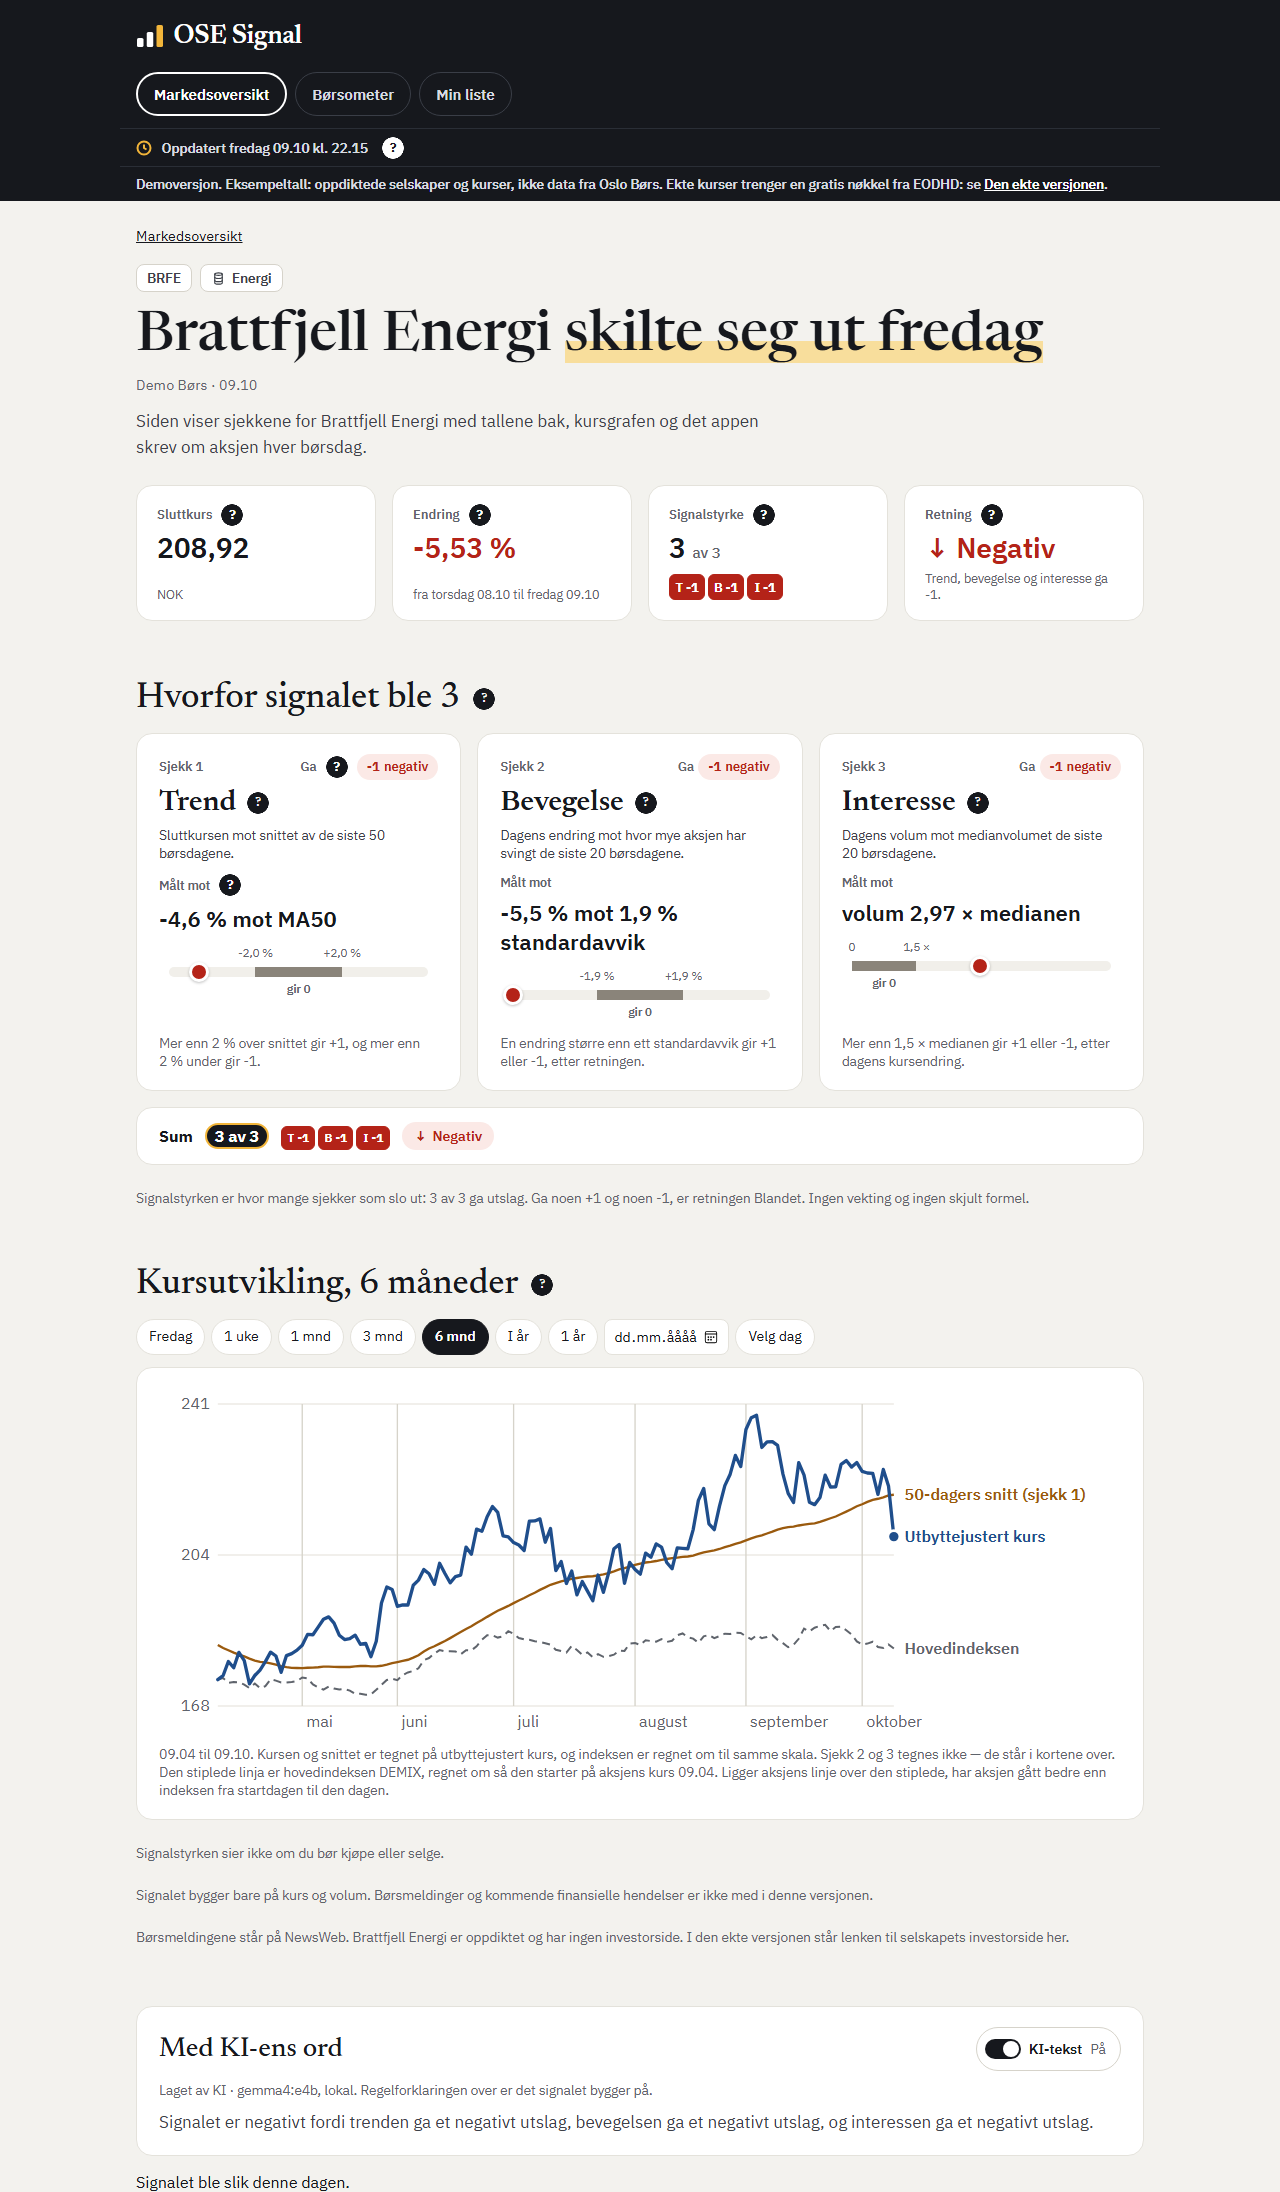
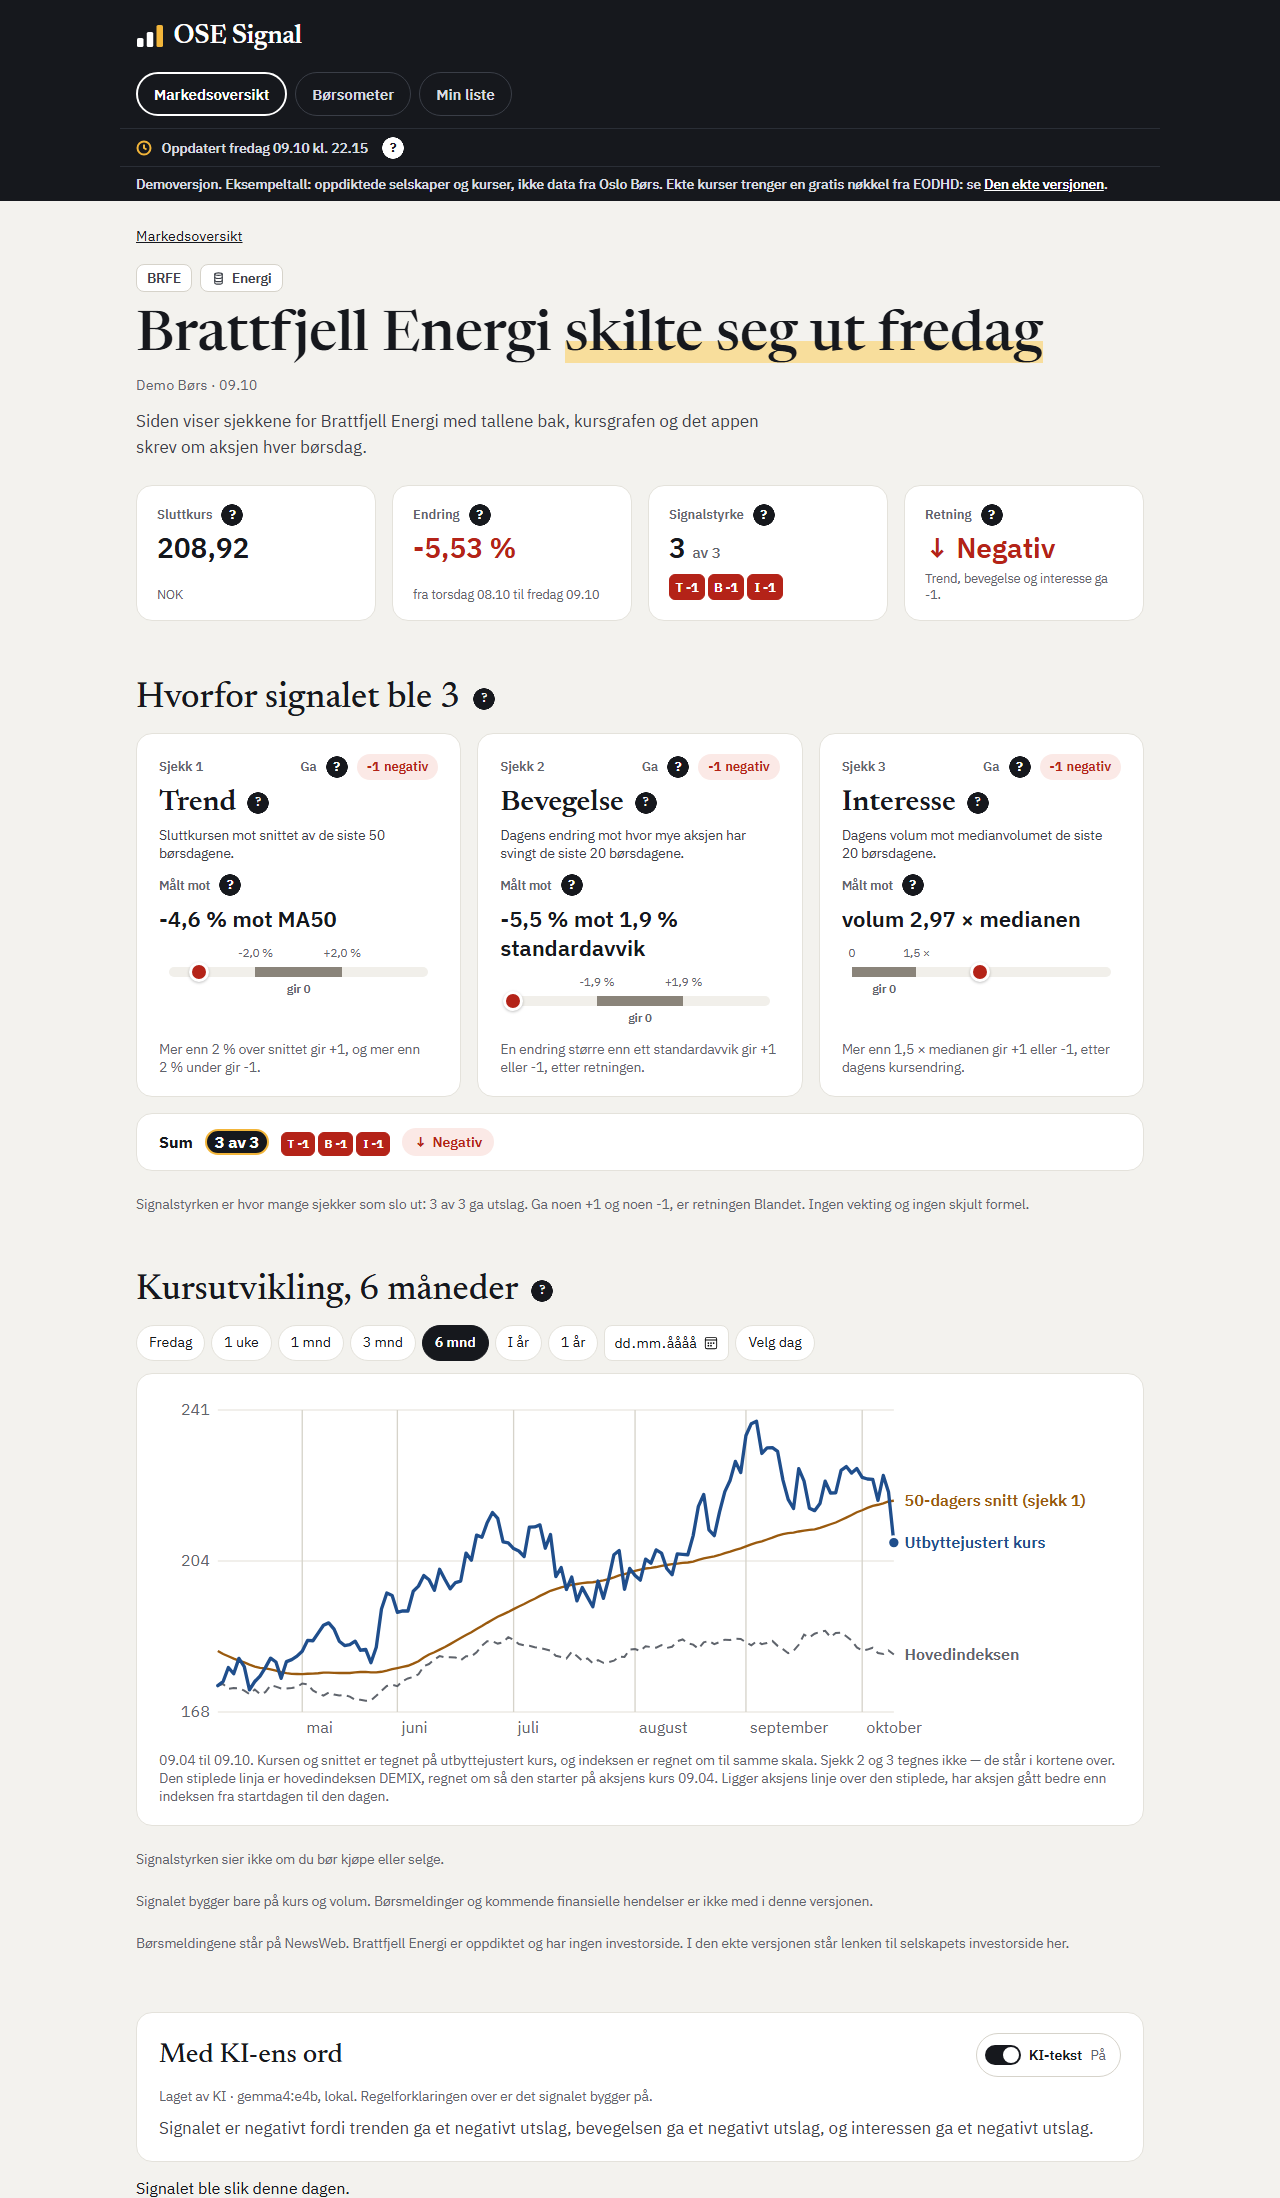
8.2b: «?» ved «Ga» og «Målt mot» i alle tre sjekkortene
Gruppens svar 04.11 kl. 09:58, som punkt 22 i 8.0d. Testen som krevde én
knapp per vindu, har fått en datert kommentar og krever nå knappen i hvert
kort. README-bildet av aksjesiden er tatt på nytt med høyden 2198.

diff --git a/src/templates/aksje.html b/src/templates/aksje.html
@@ -77,19 +77,20 @@
   <h2>Hvorfor signalet ble {% if detalj.styrke is not none %}{{ detalj.styrke }}{% else %}ukjent{% endif %} {{ hjelpeknapp("hjelp-sjekkene", "Hjelp: sjekkene") }}</h2>
 
   {% if detalj.sjekker %}
-    {#- Svar 22: «?» ved navnet, ved «Ga»-pillen og ved «Målt mot», i det
-        første kortet for Ga og Målt mot, så hvert vindu har én knapp. #}
+    {#- Svar 22: «?» ved navnet, ved «Ga»-pillen og ved «Målt mot». Gruppens
+        svar 04.11 kl. 09:58: i alle tre kortene, ikke bare i det første, så
+        vinduene for Ga og Målt mot har tre knapper hver. #}
     <div class="sjekkort-rad">
       {% for sjekk in detalj.sjekker %}
         <section class="sjekkort{% if sjekk.bidro %} bidro{% endif %}" aria-label="Sjekk {{ sjekk.nummer }}: {{ sjekk.navn }}">
           <div class="topp">
             <span>Sjekk {{ sjekk.nummer }}</span>
-            <span class="ga">Ga{% if loop.first %} {{ hjelpeknapp("hjelp-ga", "Hjelp: ga") }}{% endif %}
+            <span class="ga">Ga {{ hjelpeknapp("hjelp-ga", "Hjelp: ga") }}
               <span class="resultat fortegn {{ sjekk.klasse }}">{{ sjekk.fortegn }} <span class="ord">{{ sjekk.ord }}</span></span></span>
           </div>
           <h3>{{ sjekk.navn }} {{ hjelpeknapp("hjelp-" ~ sjekk.navn|lower, "Hjelp: " ~ sjekk.navn|lower) }}</h3>
           <p class="maaler">{{ sjekk.maaler }}</p>
-          <p class="maalt">Målt mot{% if loop.first %} {{ hjelpeknapp("hjelp-maalt", "Hjelp: målt mot") }}{% endif %}</p>
+          <p class="maalt">Målt mot {{ hjelpeknapp("hjelp-maalt", "Hjelp: målt mot") }}</p>
           <p class="regnestykke">{{ sjekk.maaling }}</p>
           {% if sjekk.skala %}
             <div class="skala" aria-hidden="true">

diff --git a/tests/test_docker.py b/tests/test_docker.py
@@ -1168,7 +1168,9 @@ IKKE_BAK_AKSJESIDEN = {"src/lagring_fil.py", "src/eodhd.py", "src/boersometer.py
 # Story 8.2b, c (U66): KI-teksten står etter grafen, saa bildet slutter ved
 # bunnen av setningen om dagene (p.dagene) under KI-teksten, og har baade
 # grafen og teksten. Maalt i Edge uten vindu. Var 1882.
-HOEYDE_PAA_AKSJESIDEN = 2192
+# Gruppens svar 04.11 kl. 09:58: 2198, fordi «?» ved «Ga» og «Målt mot» står i
+# alle tre sjekkortene. Maalt paa samme maate. Var 2192.
+HOEYDE_PAA_AKSJESIDEN = 2198
 # Story 2.3, kl. 22 fra 20.10: stripa sier kl. 22.15 igjen, ikke 21.15.
 # Story 10.5: lenken til investorsiden står under grafen, ved 1980 px målt i
 # Edge uten vindu, så bildet, som slutter ved bunnen av grafen (1872 px), ble
@@ -1338,7 +1340,9 @@ HOEYDE_PAA_AKSJESIDEN = 2192
 # Bildet ble tatt paa nytt med samme hoeyde.
 # Gruppens svar 04.11 kl. 09:58: lys og mørk søyle, i app.py, hjelpetekster.py
 # og stil.css. Bildet ble tatt paa nytt og er byte for byte det samme.
[1 lines of base64/hex data omitted]
+# Gruppens svar 04.11 kl. 09:58: «?» i alle tre sjekkortene, i aksje.html.
+# Bildet ble tatt paa nytt med den nye hoeyden.
[1 lines of base64/hex data omitted]
 SLIK_TAS_AKSJESIDEN = (
     "Aksjesiden er endret, så bildet av den viser noe annet enn demoen. Ta "
     f"{AKSJESIDEBILDET} på nytt med fremgangsmåten i spesifikasjonen 3.3b, mot /aksje/BRFE: "

diff --git a/tests/test_hjelpetekster.py b/tests/test_hjelpetekster.py
@@ -372,8 +372,14 @@ class TestSidene:
         # og hvert vindu har én knapp.
         stripa = detalj.split('<header class="stripe">', 1)[1].split("</header>", 1)[0]
         assert re.search(r"Oppdatert [^<]+</span>\s*" + knapp.format("hjelp-hentet"), stripa)
+        # Gruppens svar 04.11 kl. 09:58: «?» ved «Ga» og «Målt mot» i alle
+        # tre sjekkortene, som punkt 22 i 8.0d. Her sto én knapp per vindu,
+        # i det første kortet. Ville feilet med knappen bare i det første.
+        kortene = re.findall(r'<section class="sjekkort[^"]*"[^>]*>(.*?)</section>', detalj, flags=re.DOTALL)
+        assert len(kortene) == 3
         for vindu in ("hjelp-ga", "hjelp-maalt"):
-            assert detalj.count(f'class="hjelpeknapp" popovertarget="{vindu}"') == 1, vindu
+            assert detalj.count(f'class="hjelpeknapp" popovertarget="{vindu}"') == 3, vindu
+            assert all(f'popovertarget="{vindu}"' in kort for kort in kortene), vindu
 
     def test_hvert_vindu_har_bare_sine_tekster(self, klient, base):
         """Den nye delen 2: vinduene og tekstene i dem, i rekkefoelge. «Ikke et

diff --git a/tests/test_app.py b/tests/test_app.py
@@ -3742,7 +3742,8 @@ class TestStory816bDagenPaaHeleSiden:
         assert "fra onsdag 30.09 til torsdag 01.10" in toppen
         assert "Signalstyrke ? 3 av 3 T +1 B -1 I +1" in toppen and "Retning ? ↔ Blandet" in toppen
         assert "Hvorfor signalet ble 3" in toppen
-        assert "Sjekk 2 Ga -1 negativ" in toppen and "+12,3 % mot MA50" in toppen
+        # Gruppens svar 04.11 kl. 09:58: «?» ved «Ga» i alle tre kortene.
+        assert "Sjekk 2 Ga ? -1 negativ" in toppen and "+12,3 % mot MA50" in toppen
         assert "volum 7,00 × medianen" in toppen
         assert "skilte seg ut fredag" not in toppen and "Positiv" not in toppen
 
